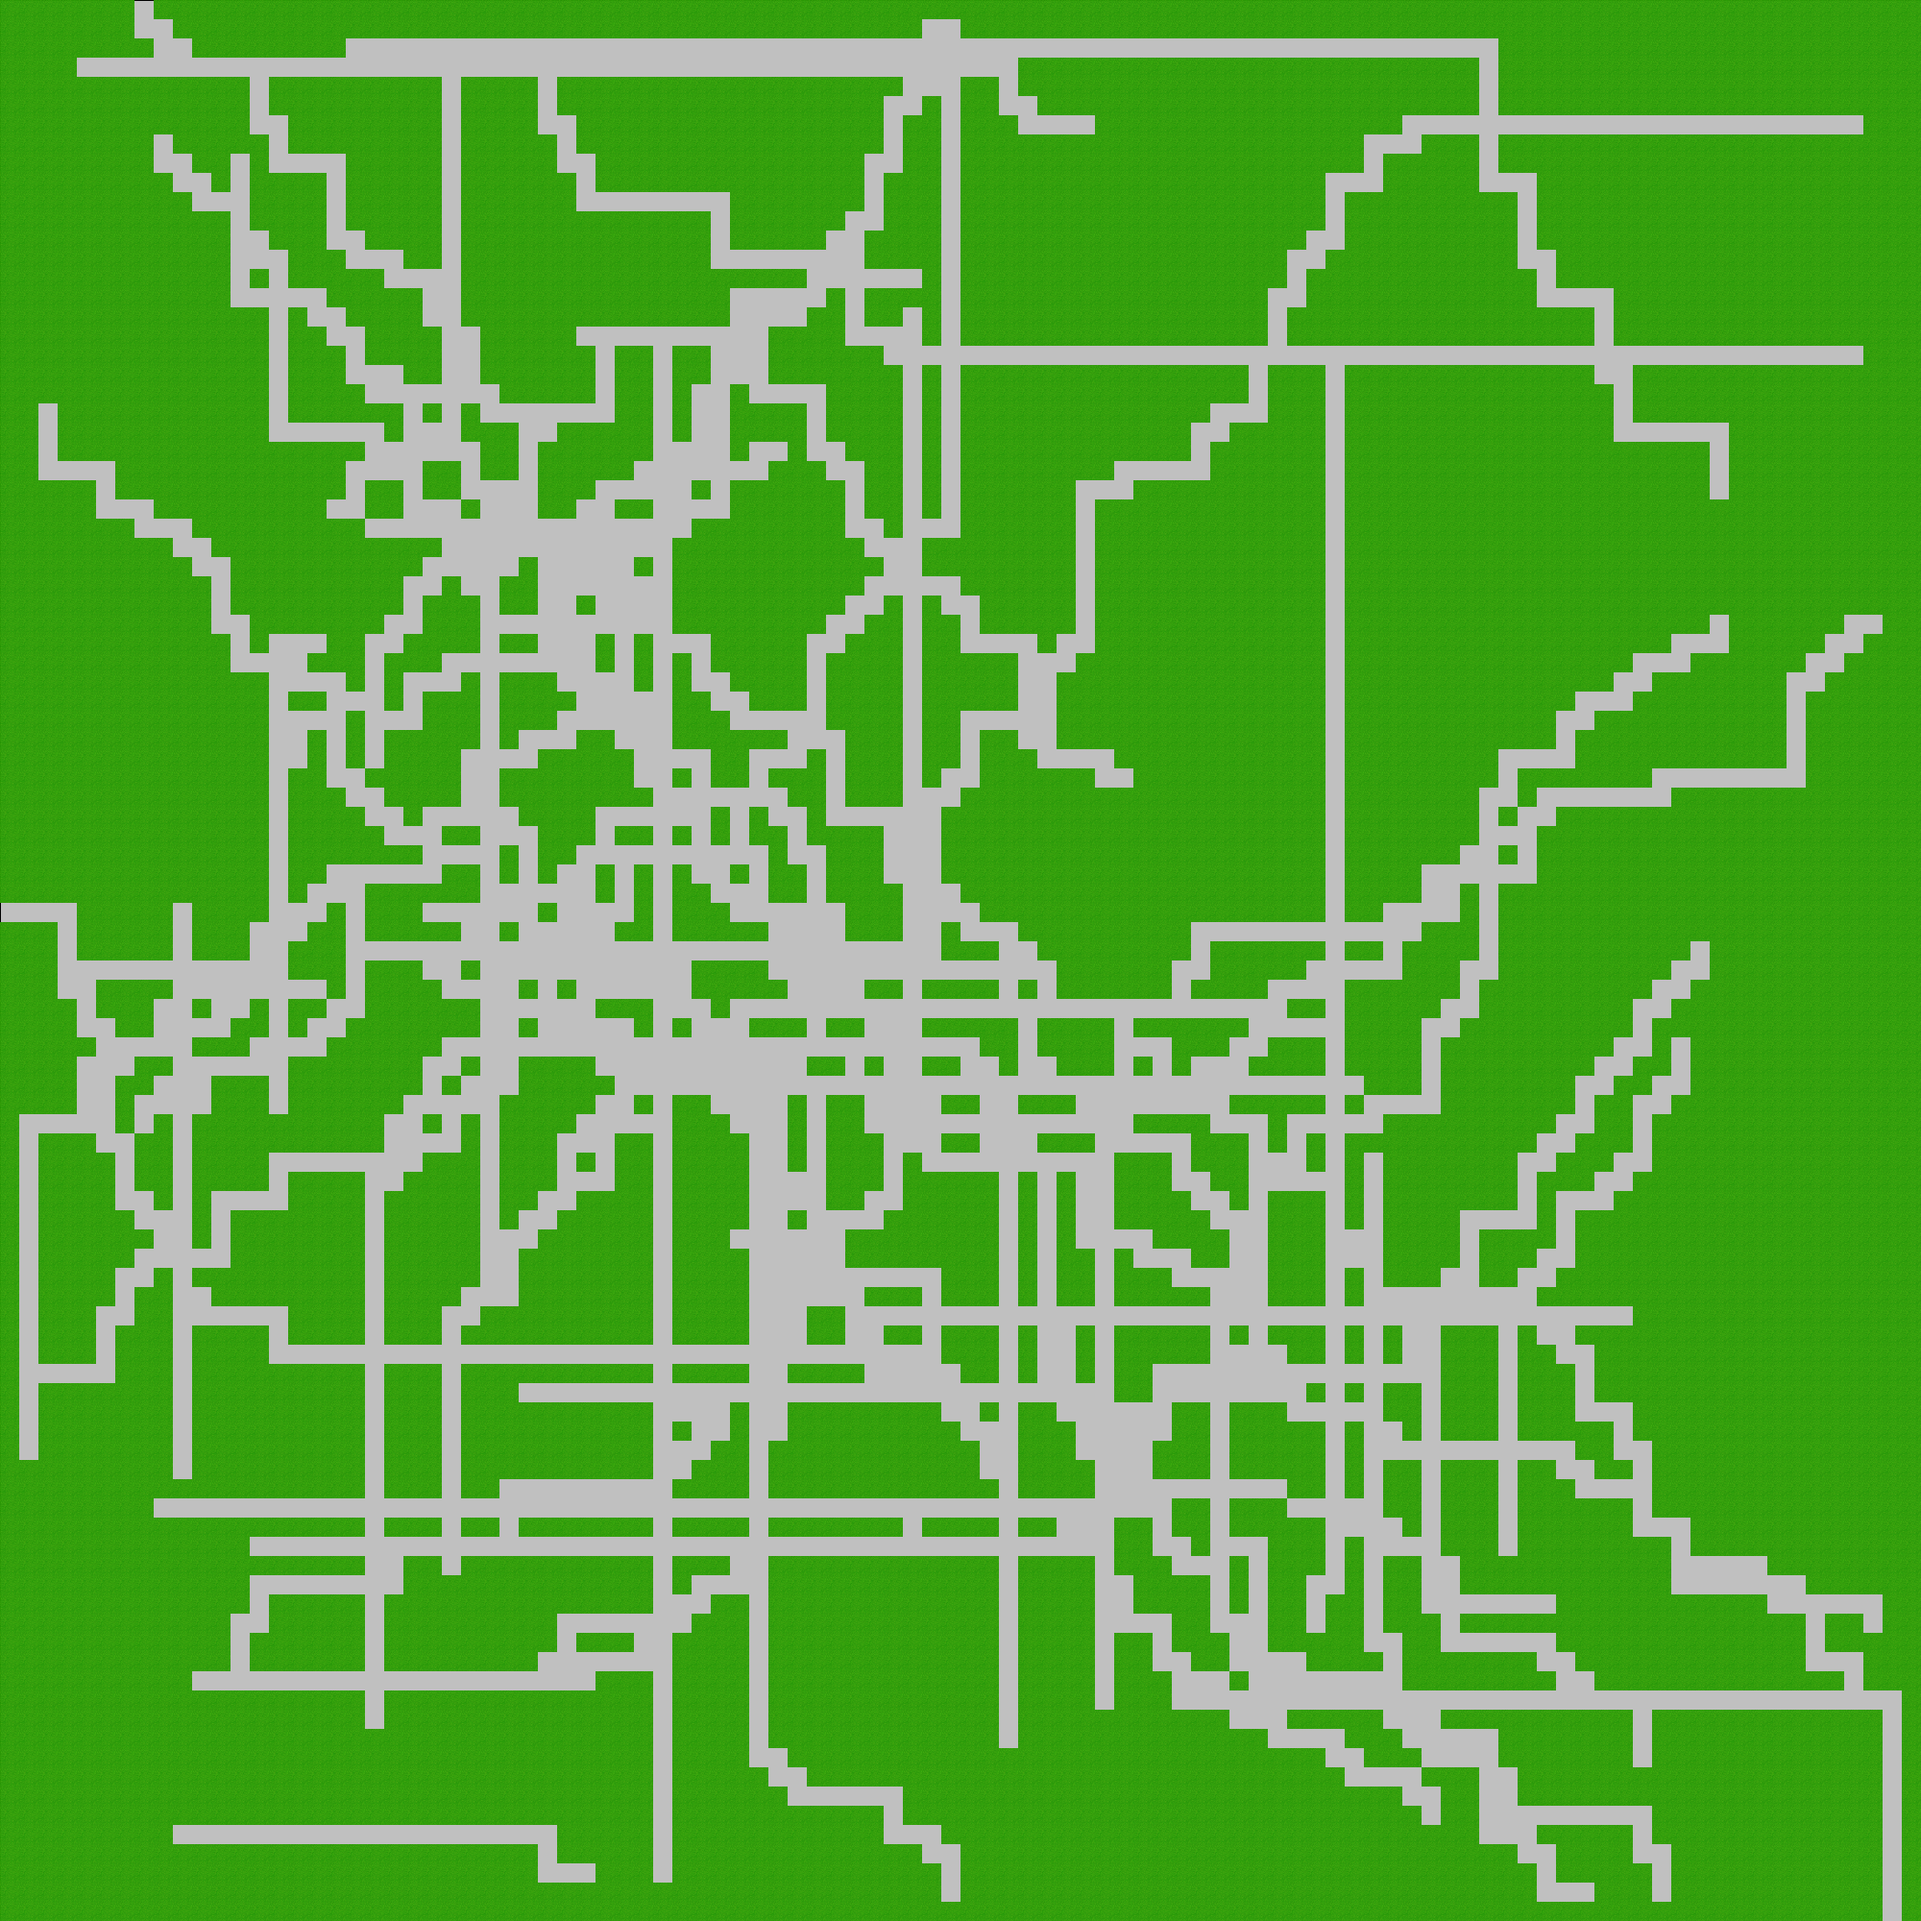
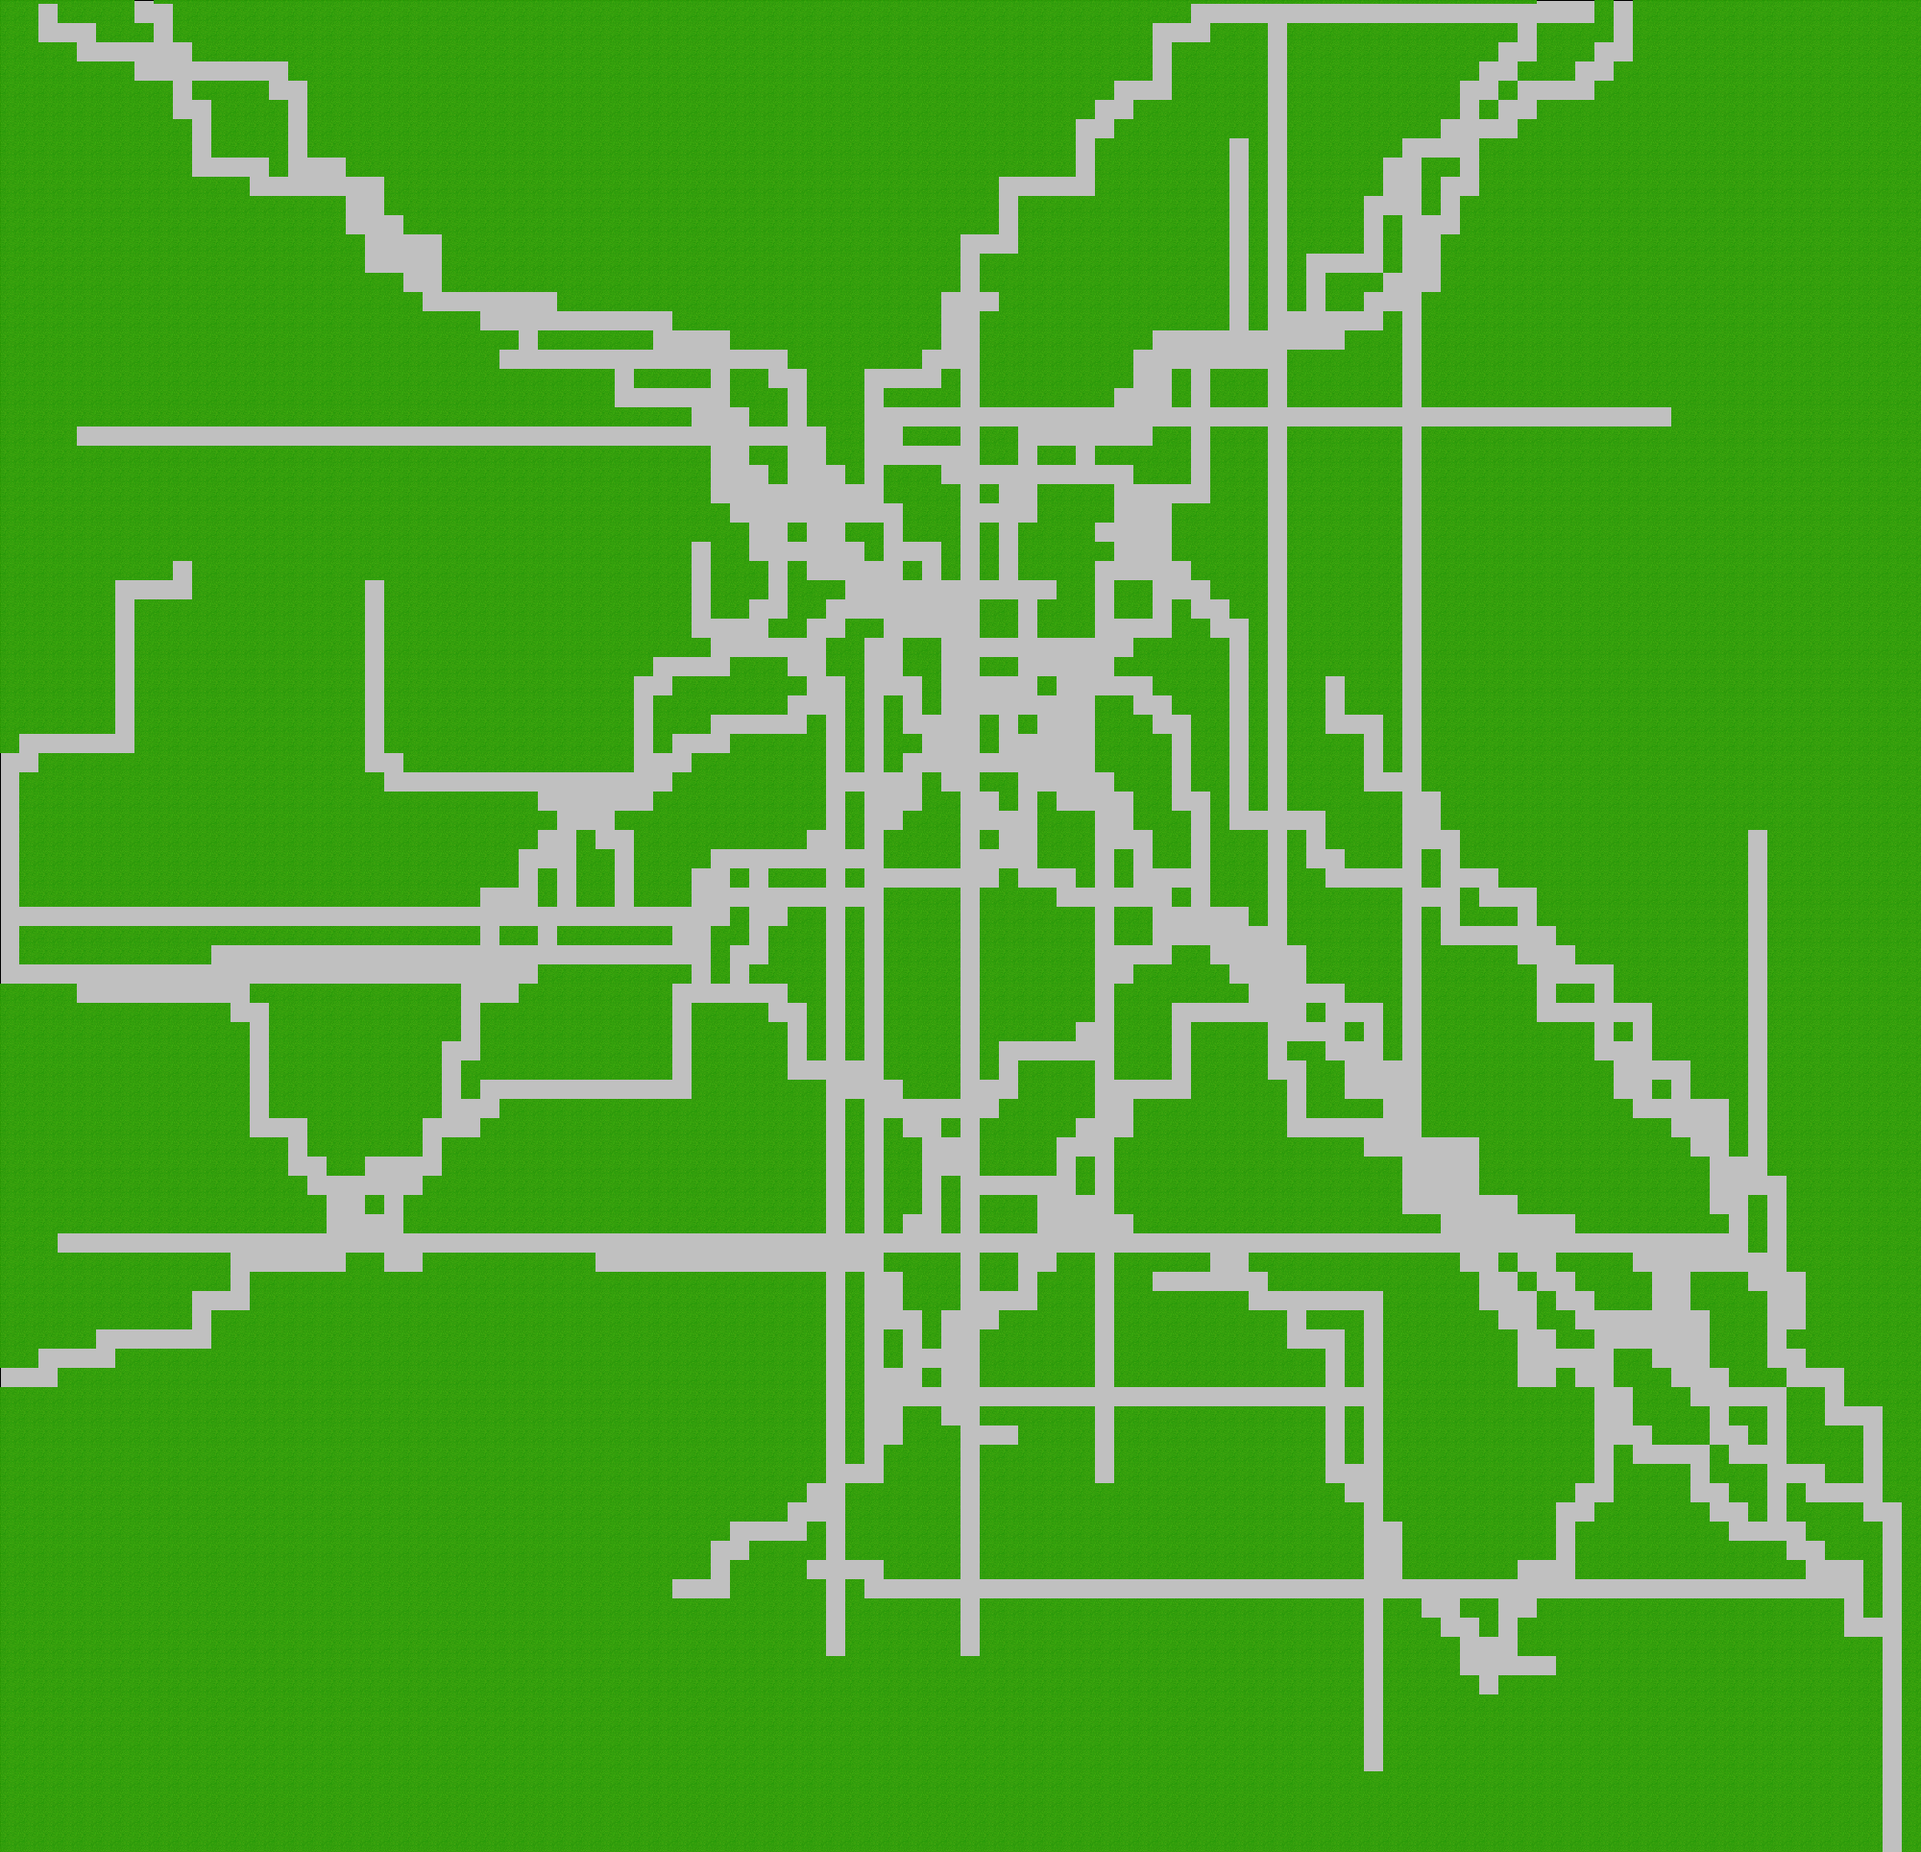
made some changes to minimap

diff --git a/src/MazeGame/Minimap.java b/src/MazeGame/Minimap.java
@@ -12,11 +12,12 @@ public class Minimap {
     private Integer pointerSize;
     private Rectangle destinationPointer;
     private CanvasWindow canvas;
+
+    private Rectangle border;
     
     public Minimap(double windowSize, CanvasWindow c){
         canvas = c;
         miniMap = new GraphicsGroup();
-        
         mapImage = new Image("maze1minimap.jpg");
         pointerSize = 7;
         mapPointer = new Ellipse(0, 0, pointerSize, pointerSize);
@@ -24,9 +25,13 @@ public class Minimap {
         mapPointer.setFillColor(Color.RED);
         destinationPointer.setFillColor(Color.YELLOW);
         mapImage.setScale(0.1,0.1);
+        border = new Rectangle(0,0,windowSize, windowSize);
+
+        border.setFillColor(Color.BLACK);
+        miniMap.add(border);
         miniMap.setPosition(0,0);
         miniMap.add(mapImage);
-        mapImage.setCenter(windowSize/2,windowSize/2);
+        mapImage.setCenter(windowSize/2 ,windowSize/2 );
         miniMap.add(destinationPointer);
         miniMap.add(mapPointer);
         mapPointer.setCenter(100,100);
@@ -42,6 +47,6 @@ public class Minimap {
 
     public void addToCanvas(CanvasWindow canvas){
         canvas.add(miniMap);
-        miniMap.setPosition(canvas.getWidth()-miniMap.getWidth() - 20, canvas.getHeight() - miniMap.getHeight() - 20);
+        miniMap.setPosition(canvas.getWidth()-miniMap.getWidth() -20 ,  20);
     }
 }

diff --git a/src/MazeGame/MazeGenerator.java b/src/MazeGame/MazeGenerator.java
@@ -19,7 +19,7 @@ public class MazeGenerator {
         Scanner fileScanner;
         Double[][] bluePrintMatrix = new Double[100][100];
         try {
-            fileScanner = new Scanner(new File("file.csv"));
+            fileScanner = new Scanner(new File("sample2.csv"));
             fileScanner.useDelimiter(",");   
             int counter = 0;
             while (fileScanner.hasNext())  

diff --git a/src/MazeGame/MazeGame.java b/src/MazeGame/MazeGame.java
@@ -44,7 +44,7 @@ public class MazeGame {
         canvas.screenShot("res/maze1minimap.jpg");
         maze.setScale(1,1);
 
-        minimap = new Minimap(200,canvas);
+        minimap = new Minimap(220,canvas);
         minimap.addToCanvas(canvas);
         this.zelda = new Player(canvas, maze, minimap);
 
